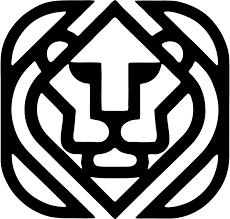
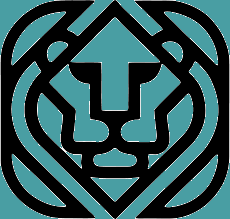
cambio en links y diseños

diff --git a/scss/estilos.scss b/scss/estilos.scss
@@ -4,6 +4,7 @@
 
 $primary-color: rgb(163, 217, 182);
 $secondary-color: #17a2b8;
+$tercer-color: #3a1a5e ;
 $text-color: rgb(0, 0, 0);
 
 /* mixins */
@@ -19,7 +20,6 @@ $text-color: rgb(0, 0, 0);
 
 body {
     font-family: Arial, Helvetica; 
-    background-color: #444242;
     a {
         text-decoration: none;
     }
@@ -28,7 +28,16 @@ body {
         margin: 7px;
         display: flex;
         justify-content: space-between;
+        background-color: #4197a5;   
+        border-radius: 10px;
+        
+        .leon{
+            border-radius: 27px;
+        }
+        
 
+
+        
         .menu {
             list-style: none;
             padding: 0;
@@ -48,26 +57,17 @@ body {
         .barranav {
             display: inline-block;
             li a:hover {
-                transition: 0.3s ease-in-out;
-                background-color: #b457da;
+                transition: 0.2s ease-in-out;
+                background-color: $tercer-color;
                 border-radius: 12px;
+                color: #fff;
+                
             }
         }
     }
 }
 
-.vuelos-brasil {
-    margin-top: 0px;
-    margin-bottom: 40px;
-    background-size: 100%;
-    padding: 90px;
-    position: ab;
 
-    h1{
-        text-align: center;
-    }
-
-}
 
 .logo {
     img {
@@ -123,8 +123,9 @@ div.pie {
 
 .pie-pagina {
     width: 100%;
-    background-color: #360b21;
+    background-color: $tercer-color;
     margin-top: 100px;
+    margin-top: 150px;
 
     .grupo-1 {
         width: 100%;
@@ -145,6 +146,7 @@ div.pie {
 
                 img {
                     width: 90px;
+                    border-radius: 27px;
                 }
             }
 
@@ -157,6 +159,7 @@ div.pie {
             p {
                 color: #fff;
             }
+
         }
 
         .box2{
@@ -172,9 +175,8 @@ div.pie {
                     color: white;
                 }
                 li a:hover {
-                    transition: 0.3s ease-in-out;
-                    background-color: #b457da;
-                    border-radius: 8px;
+                    transition: 0.2s ease-in-out;
+                    color: black;
                 }
         }
     }
@@ -194,18 +196,20 @@ div.pie {
 
 /* cartelera */
 
-.vuelos-brasil{
+.vuelos-brasil {
+    margin-top: 0px;
+    margin-bottom: 90px;
     h1{
         text-align: center;
     }
-}
 
+}
 .container {
     flex-wrap: wrap;
     display: grid;
     grid-template-columns: 1fr 1fr;
     gap: 50px;
-    background-color: #360b21;
+    background-color: $tercer-color;
     background-size: 100%;
     border-radius: 15px;
     margin-bottom: 40px;
@@ -251,6 +255,46 @@ div.pie {
 
 .pcards {
     margin-top: 10px;
+}
+
+/* acordion */
+
+.acordion {
+    max-width: 600px;
+    margin: 0 auto;
+
+    .acordion-titulo {
+        background-color: #f4f4f4;
+        padding: 10px;
+        display: block;
+        cursor: pointer;
+        border: 1px solid #ddd;
+        border-radius: 5px;
+        margin-bottom: 5px;
+        font-weight: bold;
+
+    &:hover{
+       color: #b457da; 
+       transform: scale(1.01);    
+    }
+    }
+    
+    .acordion-content {
+        display: none;
+        padding: 10px;
+        border: 1px solid #ddd;
+        border-radius: 5px;
+        margin-bottom: 5px;
+    }
+    
+    input[type="checkbox"] {
+        display: none;
+    }
+    
+    input[type="checkbox"]:checked + .acordion-titulo + .acordion-content {
+        display: block;
+    }
+
 }
 
 /* formulario de contacto */

diff --git a/css/estilos.css b/css/estilos.css
@@ -12,7 +12,6 @@
 
 body {
   font-family: Arial, Helvetica;
-  background-color: #444242;
 }
 body a {
   text-decoration: none;
@@ -21,6 +20,11 @@ body header {
   margin: 7px;
   display: flex;
   justify-content: space-between;
+  background-color: #4197a5;
+  border-radius: 10px;
+}
+body header .leon {
+  border-radius: 27px;
 }
 body header .menu {
   list-style: none;
@@ -40,20 +44,10 @@ body header .barranav {
   display: inline-block;
 }
 body header .barranav li a:hover {
-  transition: 0.3s ease-in-out;
-  background-color: #b457da;
+  transition: 0.2s ease-in-out;
+  background-color: #3a1a5e;
   border-radius: 12px;
-}
-
-.vuelos-brasil {
-  margin-top: 0px;
-  margin-bottom: 40px;
-  background-size: 100%;
-  padding: 90px;
-  position: ab;
-}
-.vuelos-brasil h1 {
-  text-align: center;
+  color: #fff;
 }
 
 .logo img {
@@ -103,8 +97,9 @@ div.pie {
 /* footer */
 .pie-pagina {
   width: 100%;
-  background-color: #360b21;
+  background-color: #3a1a5e;
   margin-top: 100px;
+  margin-top: 150px;
 }
 .pie-pagina .grupo-1 {
   width: 100%;
@@ -124,6 +119,7 @@ div.pie {
 }
 .pie-pagina .grupo-1 .box figure img {
   width: 90px;
+  border-radius: 27px;
 }
 .pie-pagina .grupo-1 .box h2 {
   color: #fff;
@@ -143,9 +139,8 @@ div.pie {
   color: white;
 }
 .pie-pagina .grupo-1 .box2 li a:hover {
-  transition: 0.3s ease-in-out;
-  background-color: #b457da;
-  border-radius: 8px;
+  transition: 0.2s ease-in-out;
+  color: black;
 }
 
 .formulario .control [type=text] :focus {
@@ -159,6 +154,10 @@ div.pie {
 }
 
 /* cartelera */
+.vuelos-brasil {
+  margin-top: 0px;
+  margin-bottom: 90px;
+}
 .vuelos-brasil h1 {
   text-align: center;
 }
@@ -168,7 +167,7 @@ div.pie {
   display: grid;
   grid-template-columns: 1fr 1fr;
   gap: 50px;
-  background-color: #360b21;
+  background-color: #3a1a5e;
   background-size: 100%;
   border-radius: 15px;
   margin-bottom: 40px;
@@ -213,6 +212,39 @@ div.pie {
 
 .pcards {
   margin-top: 10px;
+}
+
+/* acordion */
+.acordion {
+  max-width: 600px;
+  margin: 0 auto;
+}
+.acordion .acordion-titulo {
+  background-color: #f4f4f4;
+  padding: 10px;
+  display: block;
+  cursor: pointer;
+  border: 1px solid #ddd;
+  border-radius: 5px;
+  margin-bottom: 5px;
+  font-weight: bold;
+}
+.acordion .acordion-titulo:hover {
+  color: #b457da;
+  transform: scale(1.01);
+}
+.acordion .acordion-content {
+  display: none;
+  padding: 10px;
+  border: 1px solid #ddd;
+  border-radius: 5px;
+  margin-bottom: 5px;
+}
+.acordion input[type=checkbox] {
+  display: none;
+}
+.acordion input[type=checkbox]:checked + .acordion-titulo + .acordion-content {
+  display: block;
 }
 
 /* formulario de contacto */

diff --git a/index.html b/index.html
@@ -58,7 +58,7 @@
 </div>
 <!-- cartelera mundo -->
 
-<div class="container">
+<div class="container" id="cards">
 
   <div class="cards" >
     <img src="./imagenes/aerial-view-of-rio-de-janeiro.webp" class="size" alt="...">
@@ -124,13 +124,31 @@
 </div>
 
 </div>
-<!-- grid -->
+
+<!-- acordion -->
+
+<div class="acordion">
+  <input type="checkbox" id="section1">
+  <label for="section1" class="acordion-titulo ">Como Reservar</label>
+  <div class="acordion-content">
+      <p>Para reservar un viaje debes contactarte con nosotros y presentar una forma de pago Aceptada. <a href="./pages/contacto.html">contactanos</a> o via <a href="https://api.whatsapp.com/send?phone=1130523624" class="fa fa-whatsapp"></a></p>
+  </div>
+  
+  <input type="checkbox" id="section2">
+  <label for="section2" class="acordion-titulo ">Formas de pago</label>
+  <div class="acordion-content">
+      <p>Contamos con dos formas de pago: a través de depósito/transferencia bancaria, con la cual obtenés el precio especial, o bien, a través de los métodos Pago mi viaje (Visa o MasterCard) o MercadoPago (Tarjetas online, PagoFácil y RapiPago) con los cuales podés abonar en cuotas, al precio de lista.</p>
+  </div>
+  
+  <input type="checkbox" id="section3">
+  <label for="section3" class="acordion-titulo ">Promos y Descuentos</label>
+  <div class="acordion-content">
+      <p>Averigua mas sobre nuestras promos y descuentos vigentes en <a href="./pages/promos.html">Promos</a></p>
+  </div>
+</div>
 
 
-      
- 
 
- 
 <!-- footer -->
 
   <footer class="pie-pagina">
@@ -153,7 +171,7 @@
             <h2>SIGUENOS</h2>
             <div class="red-social">
                 <a href="#" class="fa fa-facebook"></a>
-                <a href="https://www.instagram.com/franco_ditale/" class="fa fa-instagram"></a>
+                <a href="https://www.instagram.com/" class="fa fa-instagram"></a>
                 <a href="#" class="fa fa-twitter"></a>
                 <a href="#" class="fa fa-youtube"></a>
             </div>
@@ -161,7 +179,7 @@
         <div class="box2">
           <h2>ENLACES RÁPIDOS</h2>
           <ul>
-              <li><a href="./index.html">Inicio</a></li>
+              <li><a href="#cards">Inicio</a></li>
               <li><a href="./pages/registrate.html">Registro</a></li>
               <li><a href="./pages/contacto.html">Contacto</a></li>
               <li><a href="./pages/promos.html">Promos</a></li>

diff --git a/pages/contacto.html b/pages/contacto.html
@@ -56,6 +56,11 @@
           
           <button type="submit">Enviar</button>
       </form>
+      <div class="red-social">
+        <a href="#" class="fa fa-facebook"></a>
+        <a href="https://www.instagram.com/" class="fa fa-instagram"></a>
+        <a href="https://api.whatsapp.com/send?phone=1130523624" class="fa fa-whatsapp"></a>
+    </div>
   </div>    
 
 
